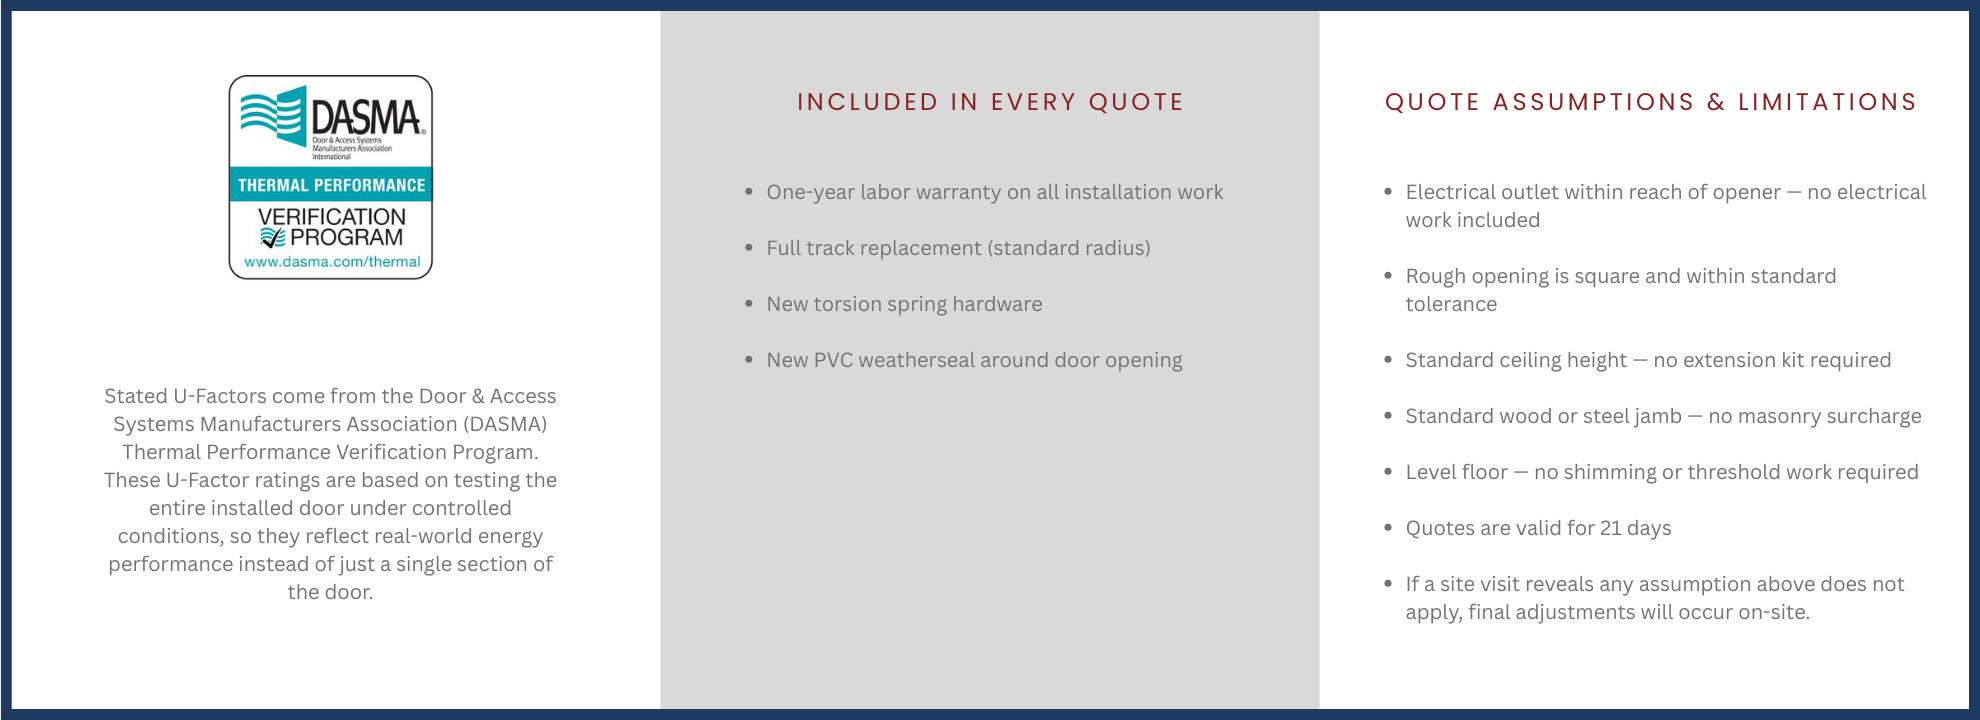
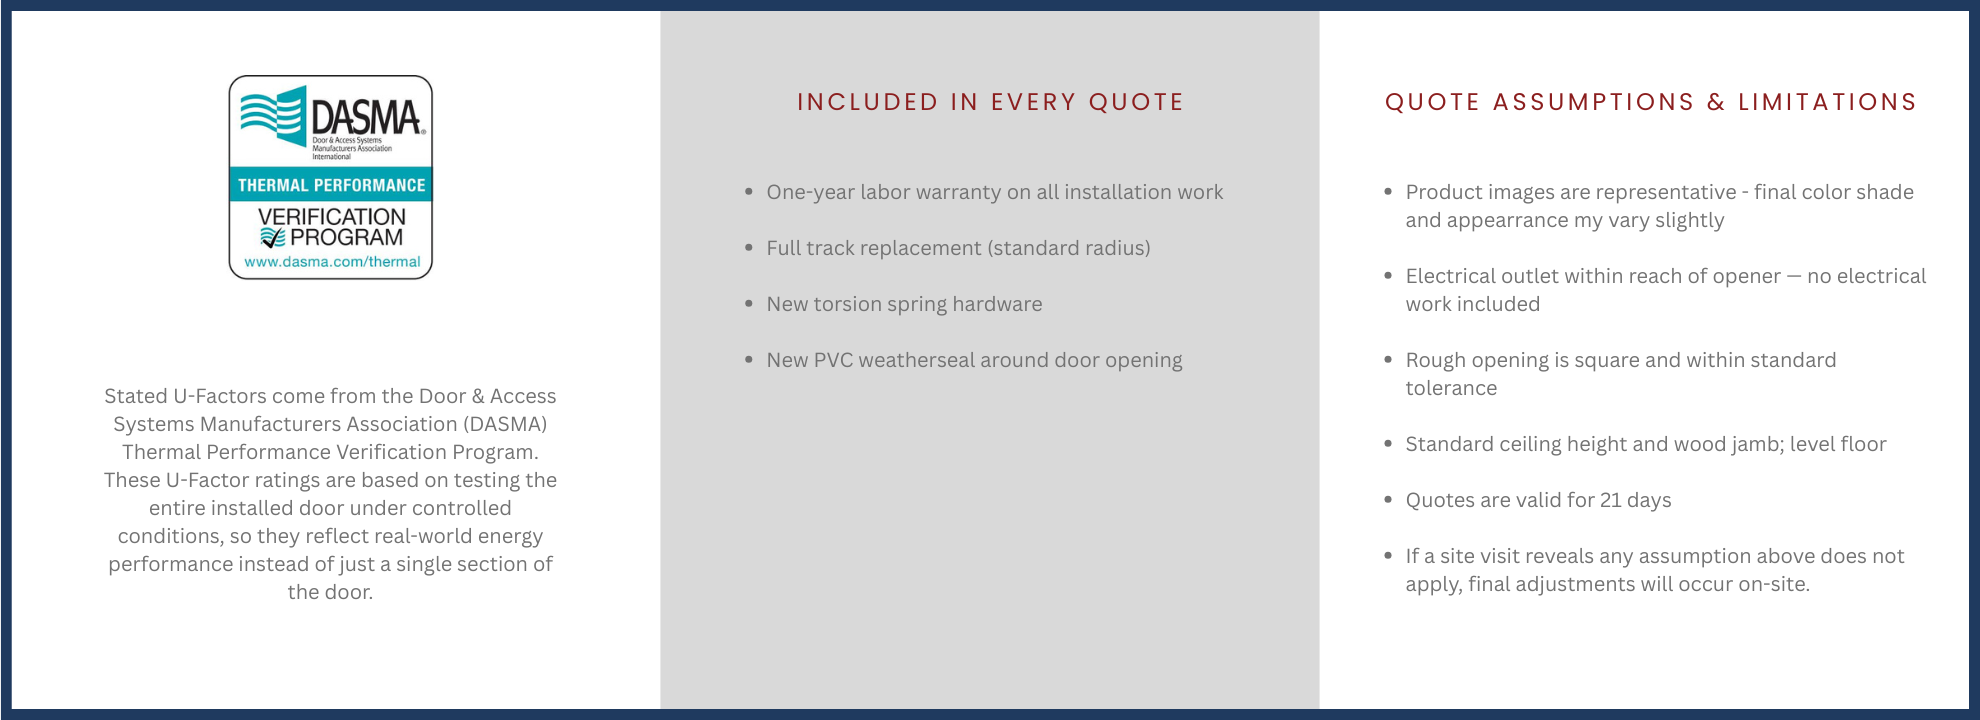
Add files via upload

Changed region(s): [[0.7086, 0.4889, 0.9859, 0.8861], [0.7086, 0.2444, 0.9859, 0.3361], [0.7086, 0.3667, 0.9859, 0.4278]]

diff --git a/index.html b/index.html
@@ -1087,10 +1087,10 @@ function buildPrintView() {
         </div>
       </div>
       <div class="print-options-grid">${optionsHtml}</div>
+      <div class="print-specs-grid" style="margin-top:12px">${specCardsHtml}</div>
     </div>
     <div class="print-page-break"></div>
     <div class="print-page">
-      <div class="print-specs-grid">${specCardsHtml}</div>
       <img src="section-footer.png" class="print-footer-img" alt="DASMA, Included in Price, Assumptions"
         onerror="this.style.display='none'">
     </div>`;